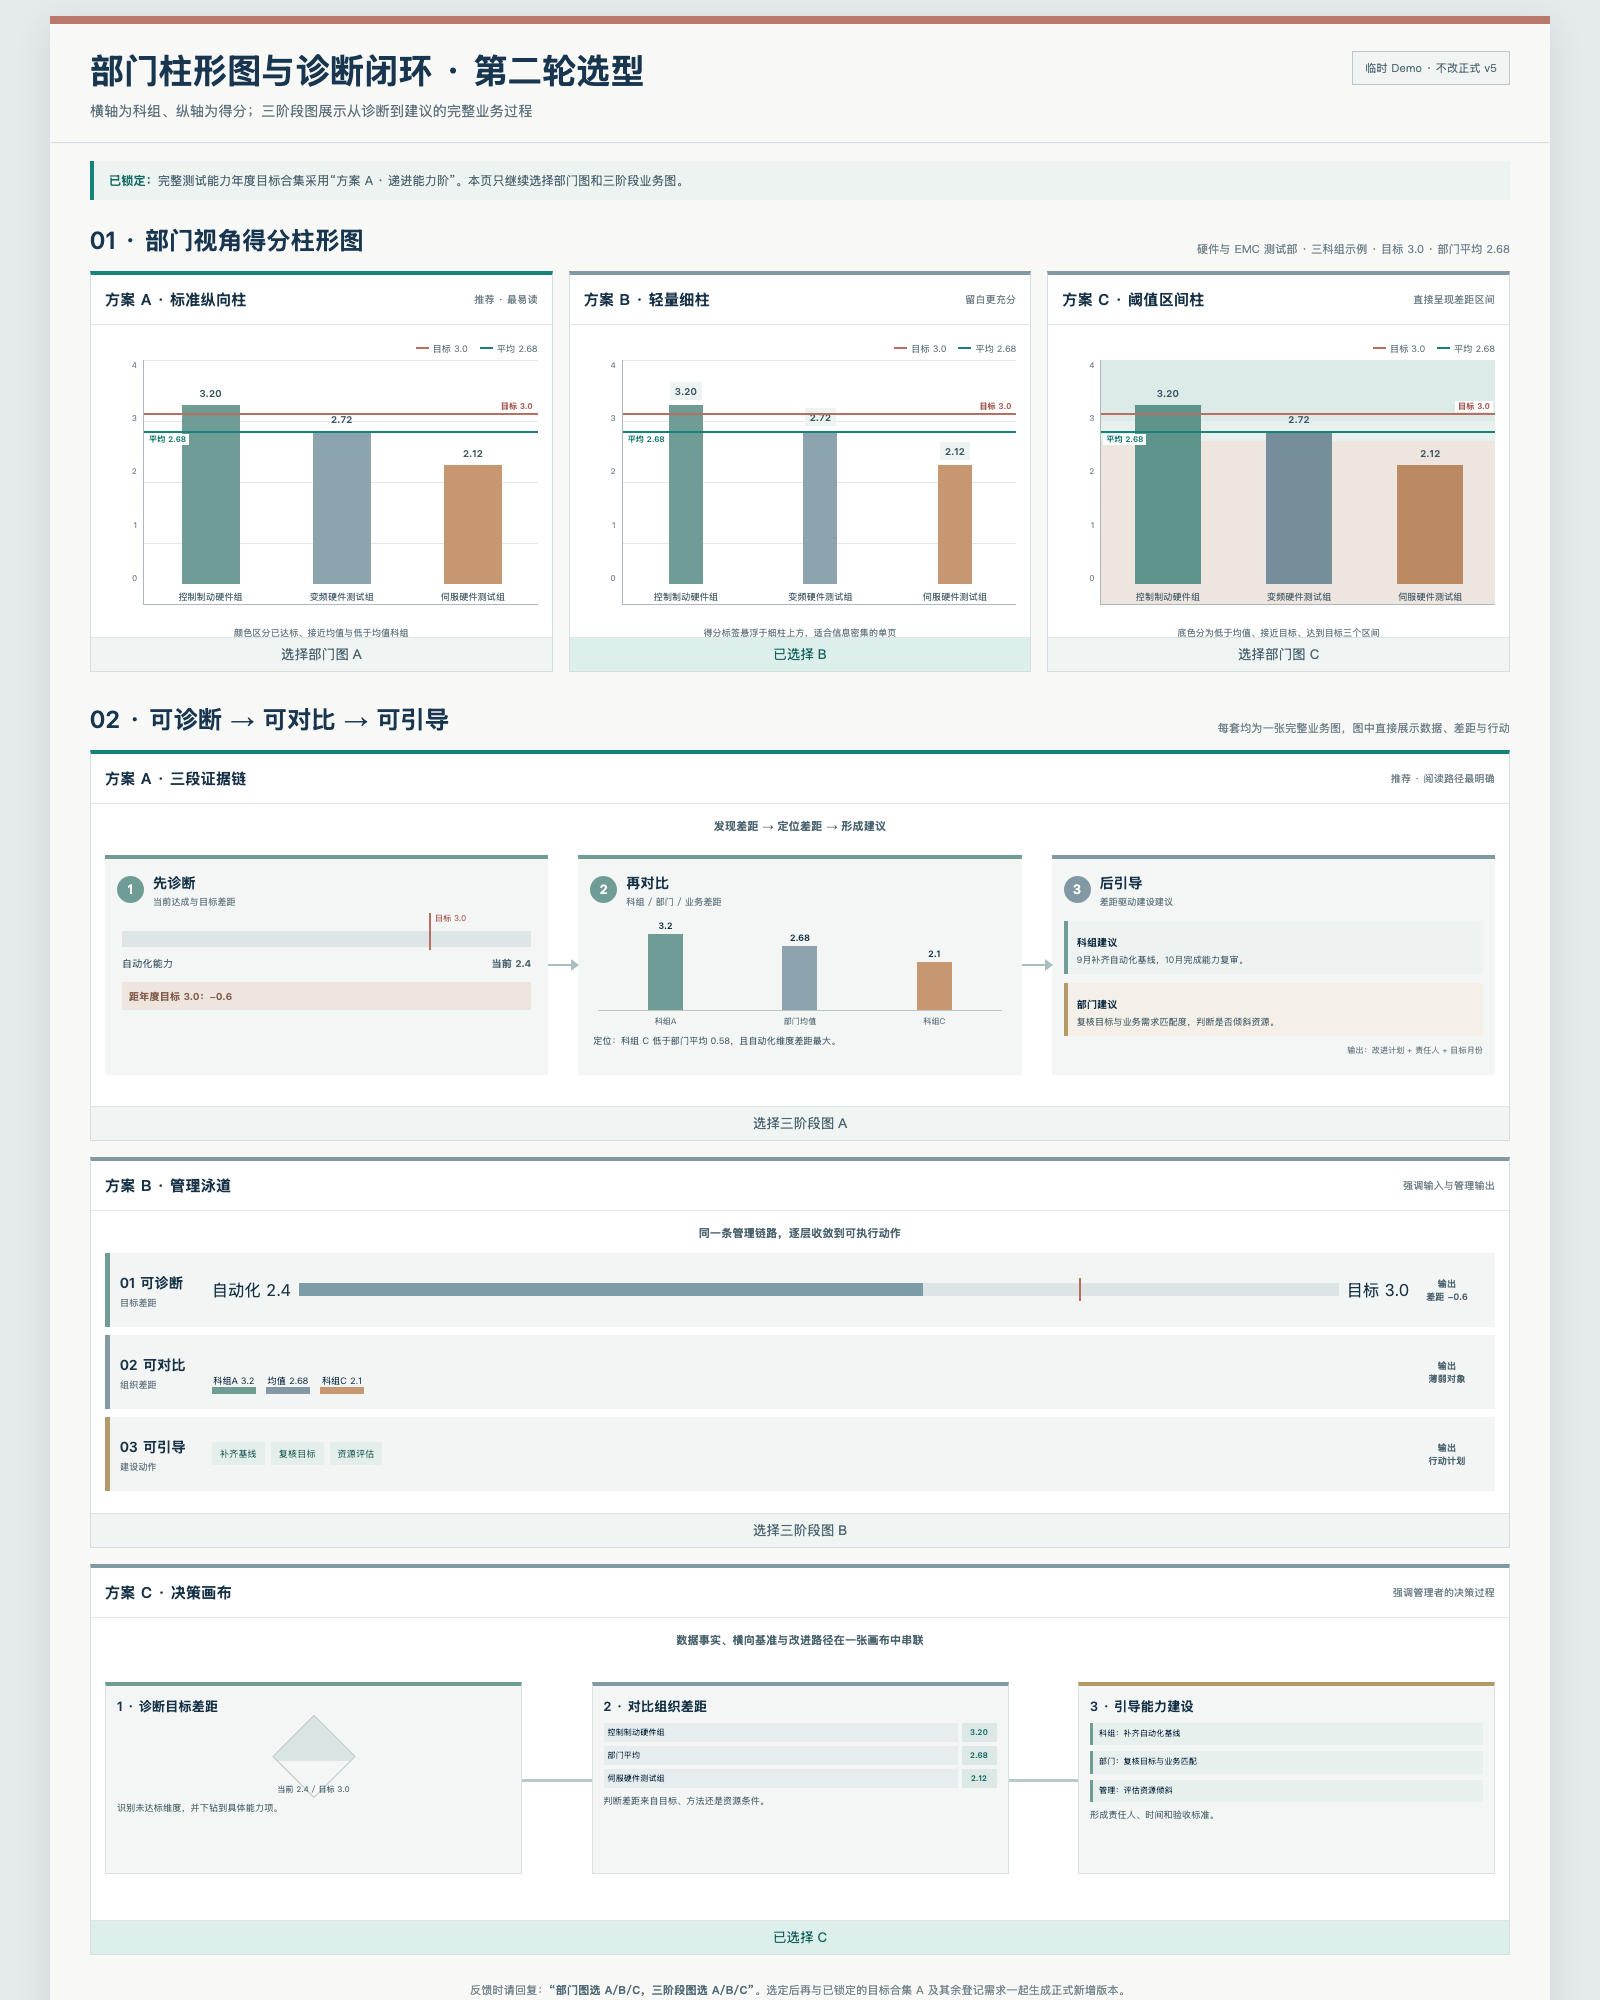
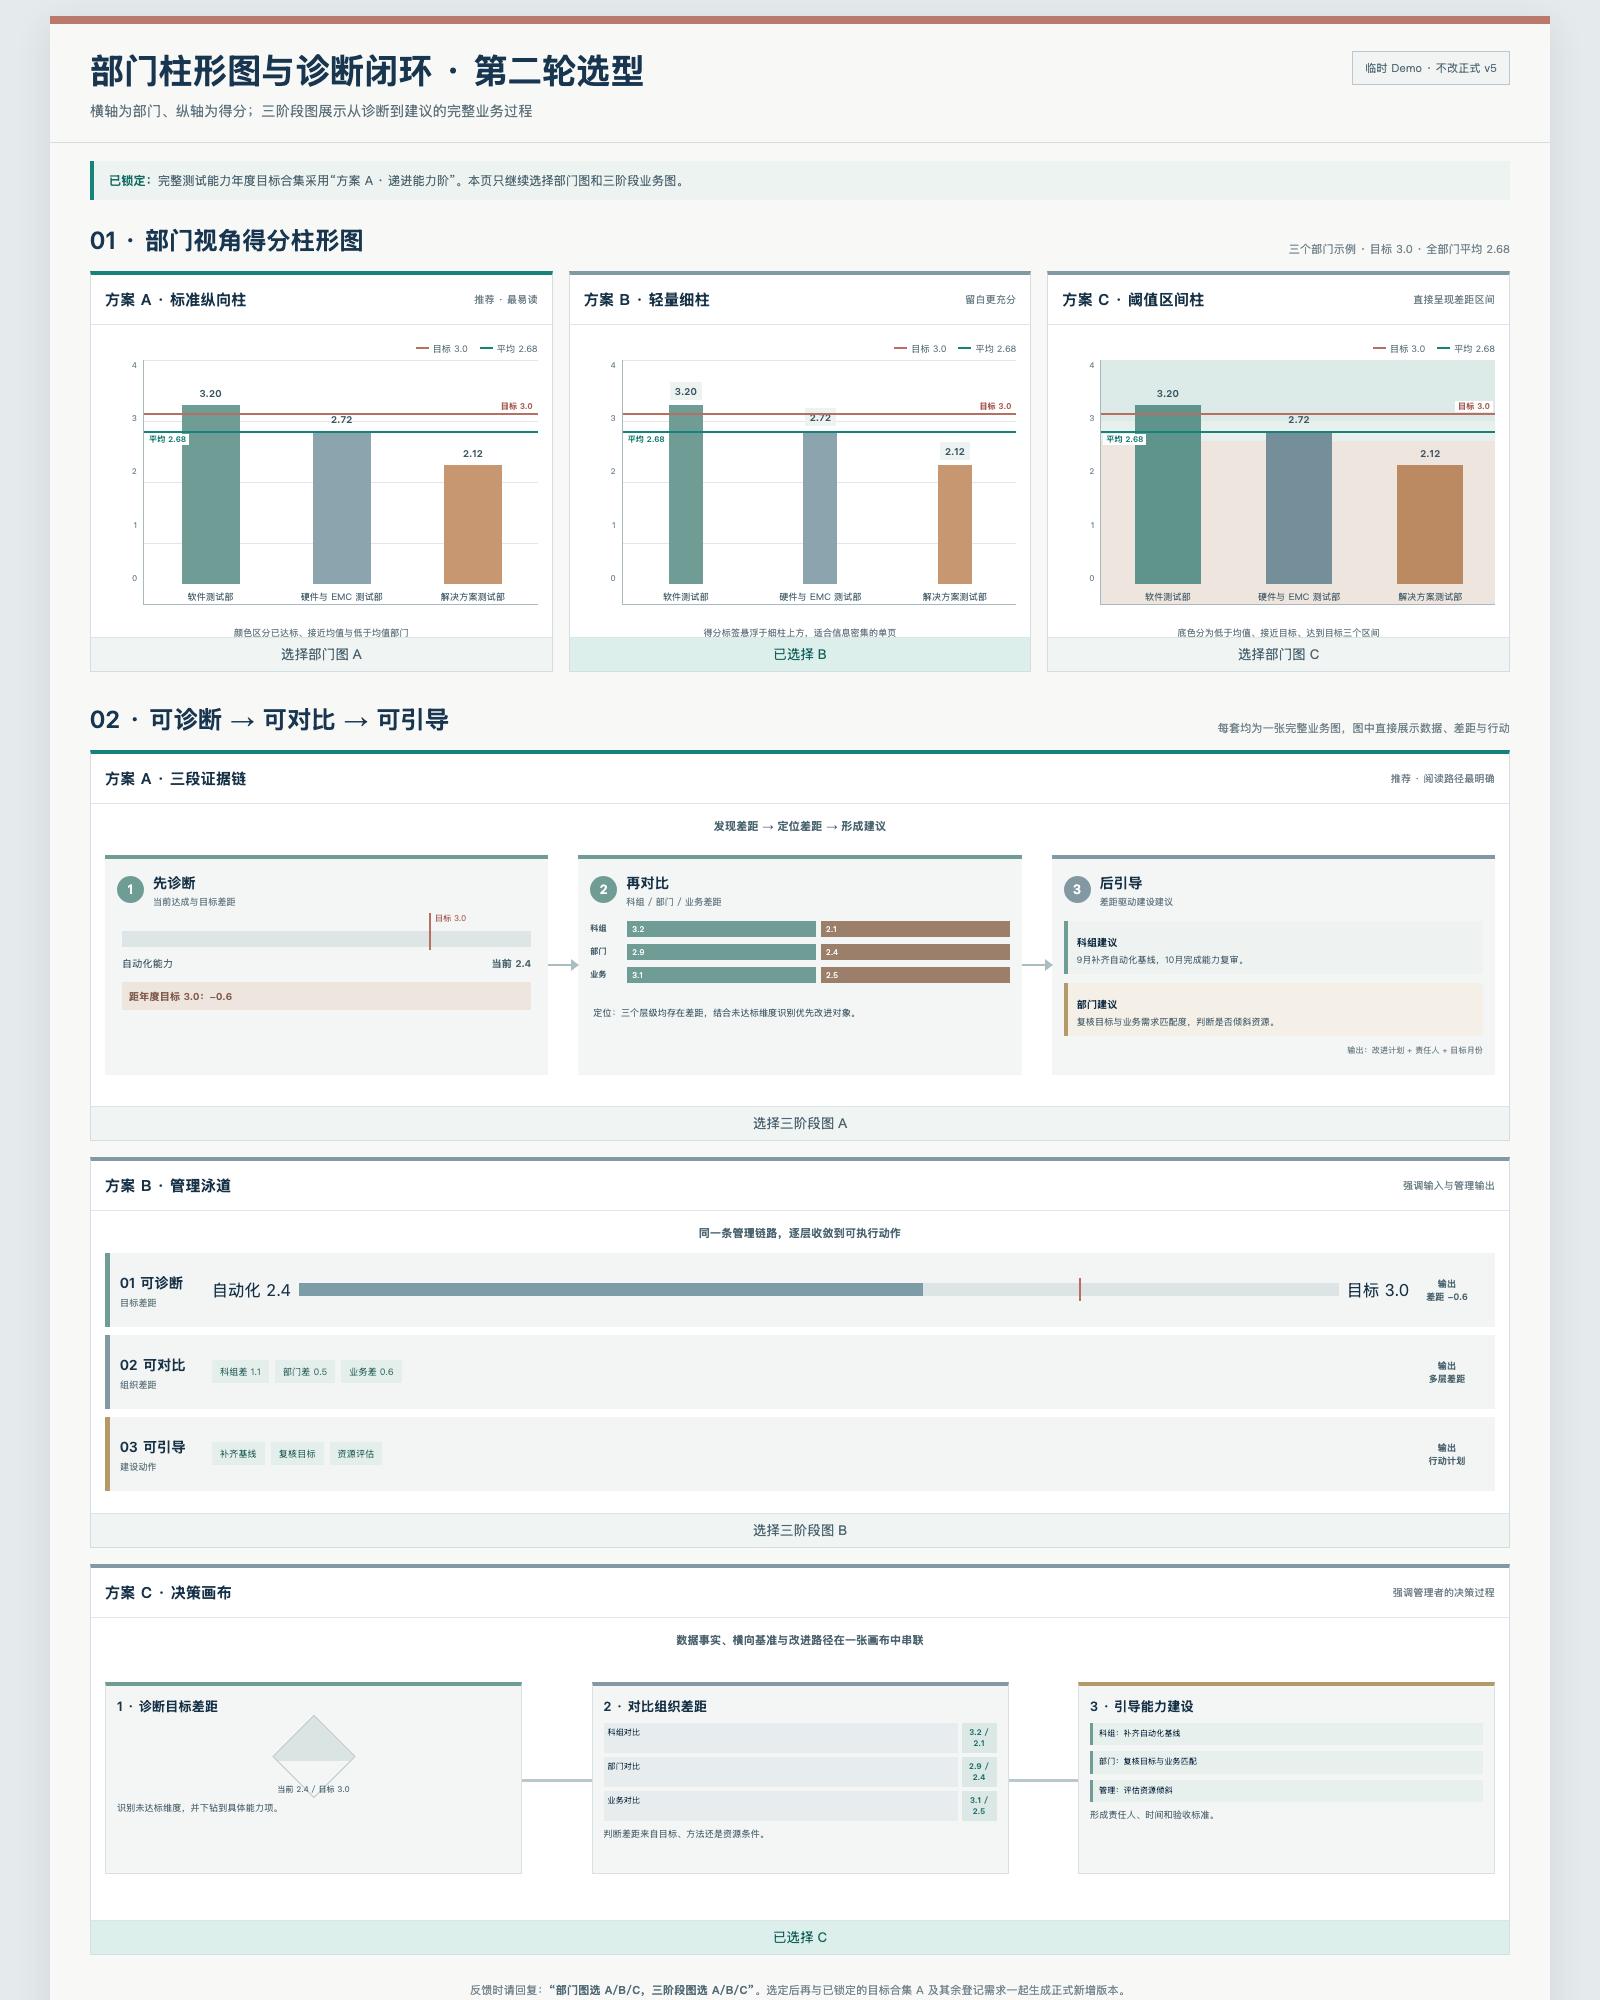
fix: align task21 department chart axes

Changed region(s): [[0.375, 0.434, 0.6562, 0.527], [0.375, 0.868, 0.4688, 0.93], [0.125, 0.682, 0.25, 0.713]]

diff --git a/task21-v2014-intro-ppt/html/测试能力成熟度-部门柱形图与诊断闭环-临时样式选型-第二轮.html b/task21-v2014-intro-ppt/html/测试能力成熟度-部门柱形图与诊断闭环-临时样式选型-第二轮.html
@@ -6,7 +6,7 @@
 <title>测试能力成熟度 · 第二轮临时样式选型</title>
 <style>
 *{box-sizing:border-box}html{background:#e5eaec}body{margin:0;background:#e5eaec;color:#183348;font-family:"Microsoft YaHei","PingFang SC",Arial,sans-serif;letter-spacing:0}.page{width:min(1500px,calc(100vw - 32px));margin:16px auto 30px;background:#f8f9f7;border-top:8px solid #b9796d;box-shadow:0 10px 32px #354d5920}.header{padding:27px 40px 21px;border-bottom:1px solid #d4dde0;display:flex;align-items:flex-start;justify-content:space-between;gap:24px}.header h1{margin:0;font-size:34px;line-height:1.2;color:#183650}.header p{margin:9px 0 0;font-size:14px;color:#61747e}.tag{padding:8px 12px;border:1px solid #bac9cd;background:#f1f4f3;color:#536c77;font-size:11px;white-space:nowrap}.locked{margin:18px 40px 0;padding:11px 15px;background:#edf3f1;border-left:4px solid #16837a;color:#516873;font-size:12px}.locked b{color:#176b65}.section{padding:24px 40px 7px}.section-head{display:flex;align-items:flex-end;justify-content:space-between;margin-bottom:14px;gap:20px}.section-head h2{margin:0;font-size:24px;color:#183650}.section-head p{margin:0;font-size:11px;color:#74858d}.grid{display:grid;grid-template-columns:repeat(3,minmax(0,1fr));gap:16px}.choice{min-width:0;background:#fff;border:1px solid #d4dde0;border-top:4px solid #8298a3}.choice.recommended{border-top-color:#16837a}.choice-head{height:50px;padding:0 14px;display:flex;align-items:center;justify-content:space-between;border-bottom:1px solid #e0e6e8}.choice-head b{font-size:15px}.choice-head small{font-size:10px;color:#74848c}.pick{width:100%;height:34px;border:0;border-top:1px solid #dce4e6;background:#f0f4f3;color:#4c6570;font:700 12px inherit;cursor:pointer}.pick.active{background:#dcefeb;color:#105e59}.chart-wrap{height:292px;padding:12px 14px 10px}.legend{height:23px;display:flex;justify-content:flex-end;gap:12px;font-size:9px;color:#687b84}.legend span{display:inline-flex;align-items:center;gap:4px}.line{width:13px;height:2px}.target-line{background:#b96e62}.avg-line{background:#16837a}.plot{height:226px;position:relative;margin-left:38px;border-left:1px solid #aab9bf;border-bottom:1px solid #aab9bf;background:repeating-linear-gradient(to top,transparent 0,transparent calc(25% - 1px),#e1e7e9 calc(25% - 1px),#e1e7e9 25%)}.y-axis{position:absolute;right:calc(100% + 7px);top:0;bottom:-4px;width:28px;display:flex;flex-direction:column;justify-content:space-between;text-align:right;font-size:8px;color:#7a8990}.h-ref{position:absolute;left:0;right:0;height:2px;z-index:3}.h-ref.target{bottom:75%;background:#b96e62}.h-ref.avg{bottom:67%;background:#16837a}.h-ref span{position:absolute;right:2px;bottom:3px;font-size:8px;font-weight:800;white-space:nowrap;background:#fff;padding:0 3px}.h-ref.target span{color:#a65f55}.h-ref.avg span{color:#14776f;right:auto;left:2px;bottom:-12px}.bars{position:absolute;inset:0 10px 0 12px;display:grid;grid-template-columns:repeat(3,1fr);gap:22px;align-items:end}.bar-col{height:100%;display:flex;align-items:flex-end;justify-content:center;position:relative}.bar-col label{position:absolute;top:calc(100% + 6px);left:50%;transform:translateX(-50%);width:108px;text-align:center;font-size:9px;color:#516873}.bar-col strong{position:absolute;bottom:calc(var(--score)*25% + 5px);font-size:10px;color:#3c5662}.bar-shape{width:58px;height:calc(var(--score)*25%);background:#8ca4ae}.bar-col.high .bar-shape{background:#6f9d96}.bar-col.low .bar-shape{background:#c69770}.chart-caption{text-align:center;margin-top:21px;font-size:9px;color:#718189}.slim .bar-shape{width:34px}.slim .bar-col strong{padding:2px 5px;background:#edf3f1}.slim .bars{gap:32px}.threshold .plot{background:linear-gradient(to top,#efe5df 0 67%,#e7f0ed 67% 75%,#dcebe7 75% 100%)}.threshold .bar-shape{width:66px;background:#758f9a}.threshold .bar-col.low .bar-shape{background:#bb8962}.threshold .bar-col.high .bar-shape{background:#5f948c}.flow-wrap{height:302px;padding:14px}.flow-title{text-align:center;font-size:11px;font-weight:800;color:#4d6671;margin-bottom:12px}.pipeline{height:238px;display:grid;grid-template-columns:1fr 30px 1fr 30px 1fr;align-items:center}.arrow{height:2px;background:#aabdc1;position:relative}.arrow:after{content:"";position:absolute;right:-1px;top:-5px;border-left:8px solid #aabdc1;border-top:6px solid transparent;border-bottom:6px solid transparent}.stage{height:220px;background:#f3f6f5;border-top:4px solid #6f9d96;padding:12px}.stage:nth-of-type(3){border-color:#8298a3}.stage:nth-of-type(5){border-color:#b49a69}.stage-head{display:flex;align-items:center;gap:9px;margin-bottom:13px}.num{width:27px;height:27px;border-radius:50%;display:flex;align-items:center;justify-content:center;background:#6f9d96;color:white;font-size:13px;font-weight:900}.stage:nth-of-type(3) .num{background:#8298a3}.stage:nth-of-type(5) .num{background:#b49a69}.stage-head b{font-size:14px}.stage-head small{display:block;font-size:9px;color:#71838c;margin-top:2px}.gauge{height:16px;background:#dde5e7;position:relative;margin:23px 5px 5px}.gauge-fill{height:100%;width:60%;background:#7d9ca7}.gauge:after{content:"目标 3.0";position:absolute;left:75%;top:-18px;border-left:2px solid #b96e62;height:37px;padding-left:4px;font-size:8px;color:#a65f55;white-space:nowrap}.metric{display:flex;justify-content:space-between;margin:9px 5px;font-size:10px;color:#4e6671}.gap{margin:12px 5px;padding:7px;background:#eee5df;color:#825d4c;font-size:10px;font-weight:800}.mini-columns{height:90px;display:flex;align-items:end;justify-content:space-around;border-bottom:1px solid #bac6ca;margin:3px 8px 8px}.mini-columns i{display:block;width:35px;background:#8da4ae;position:relative}.mini-columns i:nth-child(1){height:76px;background:#6f9d96}.mini-columns i:nth-child(2){height:64px}.mini-columns i:nth-child(3){height:48px;background:#c69770}.mini-columns i:before{content:attr(data-score);position:absolute;top:-15px;width:100%;text-align:center;font-style:normal;font-size:9px;font-weight:800}.mini-columns i:after{content:attr(data-name);position:absolute;top:calc(100% + 6px);left:50%;transform:translateX(-50%);width:50px;text-align:center;font-style:normal;font-size:8px;color:#657982}.result{margin:24px 3px 0;font-size:9px;color:#526a75;line-height:1.35}.action-card{padding:8px 9px;margin-bottom:9px;background:#eef3f2;border-left:4px solid #6f9d96}.action-card:nth-child(3){border-color:#b49a69;background:#f4f0e8}.action-card b{font-size:10px}.action-card p{margin:3px 0 0;font-size:9px;line-height:1.35;color:#5b707a}.owner{font-size:8px;color:#7b8990;text-align:right}.swim{height:238px;display:grid;grid-template-rows:repeat(3,1fr);gap:8px}.swim-row{display:grid;grid-template-columns:92px 1fr 76px;align-items:center;background:#f2f5f4;border-left:5px solid #6f9d96;padding:8px 10px}.swim-row:nth-child(2){border-color:#8298a3}.swim-row:nth-child(3){border-color:#b49a69}.swim-name b{font-size:14px}.swim-name small{display:block;margin-top:3px;font-size:9px;color:#71828a}.swim-visual{height:48px;display:flex;align-items:center;gap:8px}.bullet{height:13px;flex:1;background:#dce4e6;position:relative}.bullet i{display:block;height:100%;width:60%;background:#7c9ca7}.bullet:after{content:"";position:absolute;left:75%;top:-5px;width:2px;height:23px;background:#b96e62}.score-dots{display:flex;gap:10px;align-items:end}.score-dots i{font-style:normal;width:44px;text-align:center;padding-top:25px;border-bottom:7px solid #8298a3;font-size:9px}.score-dots i:nth-child(1){border-color:#6f9d96}.score-dots i:nth-child(3){border-color:#c69770}.advice-chips{display:flex;gap:6px;flex-wrap:wrap}.advice-chips i{font-style:normal;padding:5px 8px;background:#e4eeeb;color:#326a65;font-size:9px}.swim-output{text-align:center;font-size:9px;font-weight:800;color:#4f6772}.canvas{height:238px;position:relative;padding:13px 9px}.canvas-line{position:absolute;left:15%;right:15%;top:50%;height:3px;background:#b9c8cc}.canvas-step{position:absolute;top:22px;width:30%;height:192px;background:#f3f6f5;border:1px solid #d7e0e2;padding:11px}.canvas-step.a{left:0;border-top:4px solid #6f9d96}.canvas-step.b{left:35%;border-top:4px solid #8298a3}.canvas-step.c{right:0;border-top:4px solid #b49a69}.canvas-step h3{margin:0 0 8px;font-size:13px}.canvas-step p{margin:7px 0;font-size:9px;line-height:1.35;color:#5d717a}.micro-radar{width:100%;height:72px;position:relative}.micro-radar:before{content:"";position:absolute;left:50%;top:4px;width:57px;height:57px;transform:translateX(-50%) rotate(45deg);border:1px solid #bac7ca;background:linear-gradient(135deg,#6f9d9630 0 55%,transparent 55%)}.micro-radar:after{content:"当前 2.4 / 目标 3.0";position:absolute;left:0;right:0;bottom:0;text-align:center;font-size:8px;color:#4e6872}.compare-table{display:grid;grid-template-columns:1fr 35px;gap:4px;font-size:8px}.compare-table span{padding:4px;background:#e7ecee}.compare-table b{text-align:center;padding:4px;background:#dce8e5;color:#176b65}.roadmap{display:grid;gap:6px}.roadmap div{padding:6px;background:#e8f0ee;border-left:3px solid #6f9d96;font-size:8px;line-height:1.3}.footer{padding:20px 40px 26px;text-align:center;color:#78878f;font-size:11px}.footer strong{color:#536c77}@media(max-width:980px){.page{width:calc(100vw - 20px)}.header,.section{padding-left:22px;padding-right:22px}.locked{margin-left:22px;margin-right:22px}.tag{display:none}.grid{grid-template-columns:1fr}.chart-wrap,.flow-wrap{height:auto;min-height:310px}.pipeline{grid-template-columns:1fr;height:auto;gap:9px}.pipeline>.arrow{width:2px;height:24px;margin:auto}.pipeline>.arrow:after{right:-5px;top:17px;border-top:8px solid #aabdc1;border-left:6px solid transparent;border-right:6px solid transparent}.stage{height:auto;min-height:205px}.swim{height:auto}.swim-row{grid-template-columns:82px 1fr 62px;min-height:78px}.canvas{height:650px}.canvas-line{display:none}.canvas-step{left:0!important;right:0!important;width:100%;height:196px}.canvas-step.a{top:0}.canvas-step.b{top:216px}.canvas-step.c{top:432px}.footer{padding-left:22px;padding-right:22px}}
-.flow-grid{grid-template-columns:1fr}.plot{height:245px}.bars{bottom:20px}.y-axis{bottom:20px}.h-ref.target{bottom:188.75px}.h-ref.avg{bottom:170.75px}.chart-wrap{height:312px}@media(max-width:980px){.section-head{align-items:flex-start;flex-direction:column;gap:6px}.bars{gap:5px;left:4px;right:4px}.bar-shape,.threshold .bar-shape{width:42px}.bar-col label{width:76px;font-size:8px}.slim .bars{gap:5px}.slim .bar-shape{width:28px}.swim-row{grid-template-columns:1fr;gap:5px}.swim-visual{height:auto;min-width:0;flex-wrap:wrap}.score-dots{gap:4px}.score-dots i{width:38px}.swim-output{text-align:left}.flow-wrap{overflow:hidden}}
+.flow-grid{grid-template-columns:1fr}.plot{height:245px}.bars{bottom:20px}.y-axis{bottom:20px}.h-ref.target{bottom:188.75px}.h-ref.avg{bottom:170.75px}.chart-wrap{height:312px}.compare-strips{display:grid;gap:7px;margin-top:3px}.compare-strip{display:grid;grid-template-columns:32px 1fr 1fr;gap:5px;align-items:center;font-size:8px}.compare-strip b{color:#4d6671}.compare-strip i{height:16px;font-style:normal;color:#fff;padding:3px 5px}.compare-strip i:nth-child(2){background:#6f9d96}.compare-strip i:nth-child(3){background:#9b7f6a}@media(max-width:980px){.section-head{align-items:flex-start;flex-direction:column;gap:6px}.bars{gap:5px;left:4px;right:4px}.bar-shape,.threshold .bar-shape{width:42px}.bar-col label{width:76px;font-size:8px}.slim .bars{gap:5px}.slim .bar-shape{width:28px}.swim-row{grid-template-columns:1fr;gap:5px}.swim-visual{height:auto;min-width:0;flex-wrap:wrap}.score-dots{gap:4px}.score-dots i{width:38px}.swim-output{text-align:left}.flow-wrap{overflow:hidden}}
 </style>
 </head>
 <body><main class="page">
@@ -27,6 +27,17 @@
 <footer class="footer">反馈时请回复：<strong>“部门图选 A/B/C，三阶段图选 A/B/C”</strong>。选定后再与已锁定的目标合集 A 及其余登记需求一起生成正式新增版本。</footer>
 </main>
 <script>
+// Apply the clarified review wording before the selection behavior is initialized.
+document.querySelector('.header p').textContent='横轴为部门、纵轴为得分；三阶段图展示从诊断到建议的完整业务过程';
+document.querySelectorAll('.bar-col label').forEach((label,index)=>label.textContent=['软件测试部','硬件与 EMC 测试部','解决方案测试部'][index%3]);
+document.querySelector('.section-head p').textContent='三个部门示例 · 目标 3.0 · 全部门平均 2.68';
+document.querySelectorAll('.chart-caption').forEach((caption,index)=>caption.textContent=['颜色区分已达标、接近均值与低于均值部门','得分标签悬浮于细柱上方，适合信息密集的单页','底色分为低于均值、接近目标、达到目标三个区间'][index]);
+const compareStage=document.querySelectorAll('.pipeline > .stage')[1];
+compareStage.innerHTML='<div class="stage-head"><span class="num">2</span><div><b>再对比</b><small>科组 / 部门 / 业务差距</small></div></div><div class="compare-strips"><div class="compare-strip"><b>科组</b><i>3.2</i><i>2.1</i></div><div class="compare-strip"><b>部门</b><i>2.9</i><i>2.4</i></div><div class="compare-strip"><b>业务</b><i>3.1</i><i>2.5</i></div></div><div class="result">定位：三个层级均存在差距，结合未达标维度识别优先改进对象。</div>';
+const swimCompare=document.querySelector('.swim-row:nth-child(2) .swim-visual');
+swimCompare.innerHTML='<div class="advice-chips"><i>科组差 1.1</i><i>部门差 0.5</i><i>业务差 0.6</i></div>';
+document.querySelector('.swim-row:nth-child(2) .swim-output').innerHTML='输出<br>多层差距';
+document.querySelector('.canvas-step.b .compare-table').innerHTML='<span>科组对比</span><b>3.2 / 2.1</b><span>部门对比</span><b>2.9 / 2.4</b><span>业务对比</span><b>3.1 / 2.5</b>';
 const key='task21-style-selection-round2';let saved={};try{saved=JSON.parse(localStorage.getItem(key)||'{}')}catch(e){}
 function refresh(){document.querySelectorAll('[data-group]').forEach(card=>{const on=saved[card.dataset.group]===card.dataset.choice,btn=card.querySelector('.pick'),name=card.dataset.group==='dept2'?'部门图 ':'三阶段图 ';btn.classList.toggle('active',on);btn.textContent=on?'已选择 '+card.dataset.choice:'选择'+name+card.dataset.choice})}
 document.querySelectorAll('.pick').forEach(btn=>btn.addEventListener('click',()=>{const card=btn.closest('[data-group]');saved[card.dataset.group]=card.dataset.choice;localStorage.setItem(key,JSON.stringify(saved));refresh()}));refresh();
